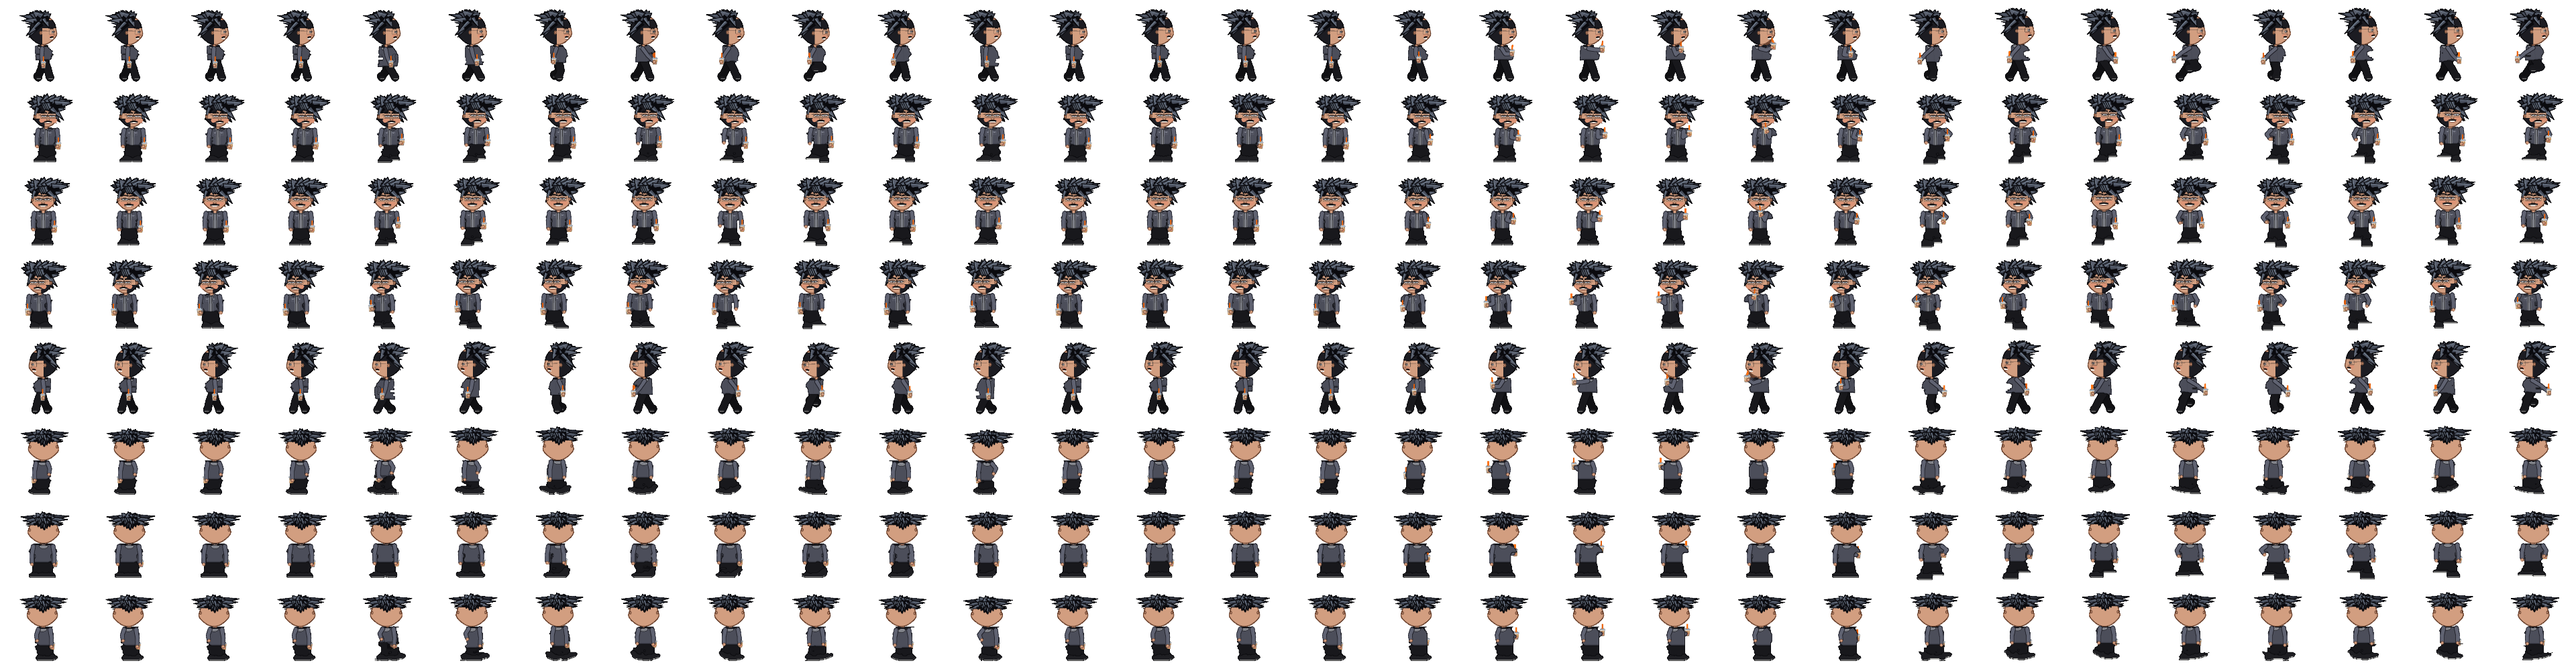
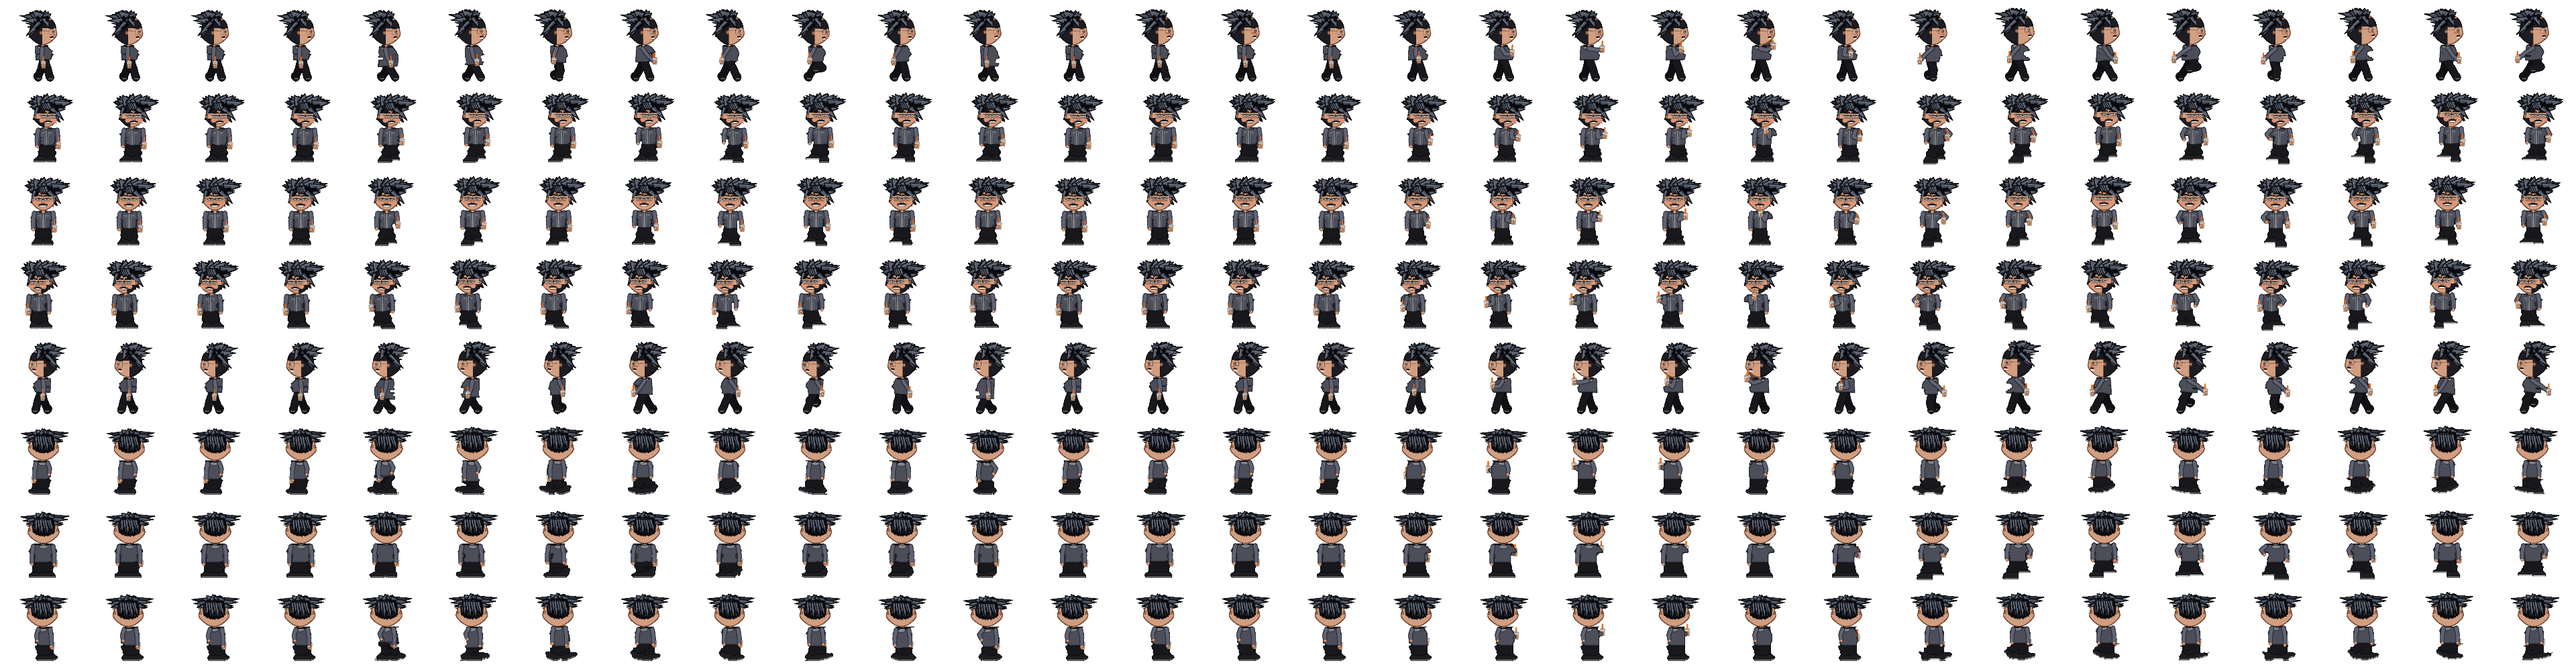
Billy: denser back spikes covering ~top 60% of skull
N/NE/NW now layer chunky down-back spikes over the upper/mid
skull to about ear level with a jagged hairline; only the lower
head, nape, and ears stay skin. No solid black scalp fill. Side
and front views unchanged.

Changed region(s): [[0.0, 0.9062, 1.0, 0.9375], [0.0, 0.7812, 1.0, 0.8125], [0.0, 0.6562, 1.0, 0.6875]]

diff --git a/phaser-tag-client/tools/make_billy_skin.py b/phaser-tag-client/tools/make_billy_skin.py
@@ -491,41 +491,40 @@ def rebuild_head(L, rgb, union, direction, wp, eyes_o):
     spikes = []  # (layer, base, tip, half_w)  layer 0=back 1=mid 2=front
 
     if direction in BACK:
-        # Dense layered spikes on a SKIN head (no black scalp fill).
-        # Up-spike bases sit near the crown (not mid-skull) so they don't
-        # fuse into a helmet band; down-back locks cover upper/mid skull
-        # with staggered tips and skin below the jagged hairline.
-        # --- up/out fans: bases high on crown, moderate width ---
+        # Skin head + DENSE spike coverage over ~top 60% of the skull.
+        # No solid black underfill. Rows of chunky spikes hang down-back;
+        # jagged hairline near ear level; only lower head/nape/ears show skin.
+        # --- crown up/out fans (bases high, so no mid-skull helmet band) ---
         for ang, ln, bw in (
-            (-115, 7.5, 3.4), (-85, 8.8, 3.8), (-55, 9.5, 4.0),
-            (-25, 10.0, 4.2), (5, 10.5, 4.4), (35, 9.8, 4.0),
-            (65, 8.8, 3.8), (95, 7.8, 3.4), (125, 6.8, 3.2),
+            (-115, 7.0, 3.6), (-85, 8.5, 4.0), (-55, 9.2, 4.2),
+            (-25, 9.8, 4.4), (5, 10.2, 4.6), (35, 9.5, 4.2),
+            (65, 8.5, 4.0), (95, 7.5, 3.6), (125, 6.5, 3.4),
         ):
             rad = math.radians(ang)
             bx = cx + math.sin(rad) * hw * 0.22
-            by = top + 1.6 + abs(math.sin(rad)) * 0.35
+            by = top + 1.5 + abs(math.sin(rad)) * 0.3
             tip = (bx + math.sin(rad) * ln, by - math.cos(rad) * ln * 0.55)
             spikes.append((0, (bx, by), tip, bw))
         for ang, ln, bw in (
-            (-95, 8.2, 3.8), (-60, 9.5, 4.2), (-28, 10.2, 4.4),
-            (5, 10.6, 4.6), (38, 9.8, 4.2), (72, 8.8, 3.8),
-            (105, 7.5, 3.4),
+            (-95, 8.0, 4.0), (-60, 9.2, 4.4), (-28, 10.0, 4.6),
+            (5, 10.4, 4.8), (38, 9.6, 4.4), (72, 8.5, 4.0),
+            (105, 7.2, 3.6),
         ):
             rad = math.radians(ang)
             bx = cx + math.sin(rad) * hw * 0.30
-            by = top + 1.2 + abs(math.sin(rad)) * 0.4
+            by = top + 1.1 + abs(math.sin(rad)) * 0.35
             tip = (bx + math.sin(rad) * ln, by - math.cos(rad) * ln * 0.58)
             spikes.append((1, (bx, by), tip, bw))
         for ang, ln, bw in (
-            (-70, 9.0, 4.0), (-35, 10.2, 4.4), (-5, 10.8, 4.6),
-            (28, 10.0, 4.4), (58, 9.0, 4.0), (88, 7.8, 3.6),
+            (-70, 8.8, 4.2), (-35, 10.0, 4.6), (-5, 10.6, 4.8),
+            (28, 9.8, 4.6), (58, 8.8, 4.2), (88, 7.5, 3.8),
         ):
             rad = math.radians(ang)
             bx = cx + math.sin(rad) * hw * 0.36
-            by = top + 0.9 + abs(math.sin(rad)) * 0.45
+            by = top + 0.8 + abs(math.sin(rad)) * 0.4
             tip = (bx + math.sin(rad) * ln * 0.95, by - math.cos(rad) * ln * 0.6)
             spikes.append((2, (bx, by), tip, bw))
-        # side flares (asym)
+        # side flares
         spikes.append((0, (cx - hw * 0.55, top + hh * 0.12),
                        (cx - (hw + 10.0), top + hh * 0.02), 3.6))
         spikes.append((1, (cx - hw * 0.45, top + hh * 0.28),
@@ -538,29 +537,107 @@ def rebuild_head(L, rgb, union, direction, wp, eyes_o):
                        (cx + (hw + 11.5), top + hh * 0.22), 3.8))
         spikes.append((2, (cx + hw * 0.35, top + hh * 0.4),
                        (cx + (hw + 6.5), top + hh * 0.58), 3.2))
-        # --- down-back locks: cover upper→mid; staggered center tips ---
-        nape_limit = top + 0.78 * (bot - top)
-        for (u, drop, sweep, bw, ly) in (
-            (-0.92, 8.0, -2.4, 3.2, 0), (-0.62, 10.0, -1.2, 3.4, 0),
-            (-0.32, 12.0, -0.2, 3.6, 0), (0.0, 13.5, 0.4, 3.8, 0),
-            (0.32, 12.0, 1.4, 3.6, 0), (0.62, 10.0, 2.4, 3.4, 0),
-            (0.92, 8.0, 3.2, 3.2, 0),
-            (-0.78, 6.5, -1.6, 3.0, 1), (-0.48, 9.5, -0.5, 3.2, 1),
-            (-0.20, 11.5, 0.3, 3.4, 1), (0.10, 13.0, 0.8, 3.4, 1),
-            (0.40, 10.0, 1.7, 3.2, 1), (0.70, 7.5, 2.6, 3.0, 1),
-            (-0.85, 5.0, -1.4, 2.6, 2), (-0.55, 8.5, -0.4, 2.8, 2),
-            (-0.25, 11.0, 0.4, 3.0, 2), (0.05, 14.0, 0.6, 3.2, 2),
-            (0.30, 11.5, 1.3, 3.0, 2), (0.55, 8.0, 2.1, 2.8, 2),
-            (0.82, 5.5, 2.8, 2.6, 2),
-            (-0.68, 4.0, -0.9, 2.2, 2), (-0.38, 7.0, -0.1, 2.4, 2),
-            (-0.10, 9.5, 0.5, 2.6, 2), (0.18, 5.5, 1.0, 2.4, 2),
-            (0.45, 8.5, 1.7, 2.4, 2), (0.72, 4.5, 2.4, 2.2, 2),
-            (0.0, 6.5, 0.2, 2.3, 2), (-0.12, 5.0, 0.4, 2.2, 2),
-            (0.22, 9.0, 1.1, 2.4, 2), (0.0, 10.5, -0.2, 2.2, 1),
+        # --- down-back ROWS: cover ~top 60% of skull; hairline ~ear level ---
+        # Target tip band: top+0.52..0.65 of head height. Chunkier + denser
+        # so the mid-back isn't a bald skin dome under a thin spike crown.
+        ear_y = top + 0.58 * (bot - top)
+        nape_limit = top + 0.74 * (bot - top)
+        # Row A: long recessed locks spanning crown → ear line
+        for (u, frac, sweep, bw, ly) in (
+            (-0.95, 0.60, -2.6, 3.8, 0), (-0.70, 0.66, -1.6, 4.0, 0),
+            (-0.45, 0.68, -0.6, 4.2, 0), (-0.20, 0.70, 0.2, 4.4, 0),
+            (0.05, 0.71, 0.8, 4.4, 0), (0.30, 0.69, 1.6, 4.2, 0),
+            (0.55, 0.67, 2.4, 4.0, 0), (0.80, 0.64, 3.2, 3.8, 0),
+            (0.98, 0.58, 3.8, 3.6, 0),
+        ):
+            bx = cx + u * hw * 0.55
+            by = top + 1.2 + 0.3 * abs(u)
+            tip_y = min(top + frac * (bot - top), nape_limit)
+            spikes.append((ly, (bx, by), (bx + sweep, tip_y), bw))
+        # Row B: mid layer, staggered lengths for jagged hairline
+        for (u, frac, sweep, bw, ly) in (
+            (-0.85, 0.52, -2.0, 3.6, 1), (-0.58, 0.60, -1.0, 3.8, 1),
+            (-0.32, 0.63, -0.2, 4.0, 1), (-0.05, 0.58, 0.5, 4.0, 1),
+            (0.22, 0.65, 1.3, 4.0, 1), (0.48, 0.61, 2.1, 3.8, 1),
+            (0.72, 0.55, 2.9, 3.6, 1), (0.92, 0.50, 3.5, 3.4, 1),
+        ):
+            bx = cx + u * hw * 0.52
+            by = top + 1.6 + 0.35 * abs(u)
+            tip_y = min(top + frac * (bot - top), nape_limit)
+            spikes.append((ly, (bx, by), (bx + sweep, tip_y), bw))
+        # Row C: forward chunky points — deliberately uneven around ear_y
+        for (u, frac, sweep, bw, ly) in (
+            (-0.90, 0.48, -1.8, 3.2, 2), (-0.65, 0.57, -0.8, 3.4, 2),
+            (-0.38, 0.62, 0.0, 3.6, 2), (-0.12, 0.54, 0.6, 3.6, 2),
+            (0.12, 0.66, 1.2, 3.6, 2), (0.38, 0.59, 1.9, 3.4, 2),
+            (0.62, 0.64, 2.6, 3.4, 2), (0.85, 0.51, 3.2, 3.2, 2),
         ):
             bx = cx + u * hw * 0.50
-            by = top + 1.4 + 0.45 * abs(u)
-            tip_y = min(by + drop, nape_limit)
+            by = top + 2.0 + 0.4 * abs(u)
+            tip_y = min(top + frac * (bot - top), nape_limit)
+            spikes.append((ly, (bx, by), (bx + sweep, tip_y), bw))
+        # Row D: tip daggers poking past ear_y for spiky hairline
+        for (u, frac, sweep, bw) in (
+            (-0.75, 0.58, -1.2, 2.6), (-0.48, 0.72, -0.3, 2.8),
+            (-0.22, 0.64, 0.4, 2.8), (0.02, 0.74, 0.9, 3.0),
+            (0.28, 0.60, 1.5, 2.8), (0.52, 0.70, 2.2, 2.8),
+            (0.78, 0.56, 2.8, 2.6),
+            (-0.35, 0.55, 0.2, 2.4), (0.15, 0.68, 1.1, 2.6),
+            (0.42, 0.52, 1.8, 2.4), (-0.08, 0.50, 0.5, 2.4),
+            (-0.60, 0.70, -0.8, 2.5), (0.60, 0.70, 1.6, 2.5),
+            (0.0, 0.72, 0.3, 2.6), (-0.18, 0.66, 0.2, 2.4),
+            (0.35, 0.66, 1.3, 2.4),
+        ):
+            bx = cx + u * hw * 0.48
+            by = top + 2.4 + 0.3 * abs(u)
+            tip_y = min(top + frac * (bot - top), nape_limit)
+            spikes.append((2, (bx, by), (bx + sweep, tip_y), bw))
+        # Mid-skull rooted locks (hang from ~25% down) fill bald mid-back
+        for (u, frac, sweep, bw, ly) in (
+            (-0.70, 0.62, -1.4, 3.4, 0), (-0.40, 0.66, -0.4, 3.6, 0),
+            (-0.10, 0.68, 0.4, 3.8, 1), (0.20, 0.67, 1.2, 3.6, 1),
+            (0.50, 0.64, 2.0, 3.4, 0), (0.75, 0.60, 2.8, 3.2, 0),
+            (-0.55, 0.58, -0.8, 3.0, 2), (-0.25, 0.64, 0.2, 3.2, 2),
+            (0.05, 0.61, 0.8, 3.2, 2), (0.35, 0.65, 1.6, 3.0, 2),
+            (0.60, 0.56, 2.4, 2.8, 2),
+        ):
+            bx = cx + u * hw * 0.48
+            by = top + 0.25 * (bot - top) + 0.2 * abs(u)
+            tip_y = min(top + frac * (bot - top), nape_limit)
+            spikes.append((ly, (bx, by), (bx + sweep, tip_y), bw))
+        # Lateral mid-skull fill: close the bald side gaps above the ears
+        for (u, frac, sweep, bw, ly) in (
+            (-1.05, 0.58, -2.0, 3.6, 0), (-0.88, 0.64, -1.2, 3.8, 0),
+            (-0.72, 0.66, -0.5, 4.0, 1), (0.72, 0.66, 0.8, 4.0, 1),
+            (0.88, 0.64, 1.6, 3.8, 0), (1.05, 0.58, 2.4, 3.6, 0),
+            (-0.95, 0.55, -1.6, 3.4, 2), (-0.80, 0.62, -0.8, 3.6, 2),
+            (0.80, 0.62, 1.2, 3.6, 2), (0.95, 0.55, 2.0, 3.4, 2),
+            (-1.00, 0.50, -1.0, 3.2, 1), (1.00, 0.50, 1.4, 3.2, 1),
+            (-0.82, 0.68, -0.3, 3.4, 2), (0.82, 0.68, 0.6, 3.4, 2),
+        ):
+            bx = cx + u * hw * 0.58
+            by = top + 0.18 * (bot - top) + 0.15 * abs(u)
+            tip_y = min(top + frac * (bot - top), nape_limit)
+            spikes.append((ly, (bx, by), (bx + sweep, tip_y), bw))
+        # Coverage locks across full width at ~ear depth (narrower so tips
+        # stay distinct spikes, not a flat fused rectangle)
+        for (u, frac, sweep, bw, ly) in (
+            (-0.90, 0.62, -1.5, 3.2, 0), (-0.60, 0.68, -0.6, 3.4, 0),
+            (-0.30, 0.71, 0.2, 3.6, 1), (0.0, 0.72, 0.5, 3.6, 1),
+            (0.30, 0.71, 1.2, 3.6, 1), (0.60, 0.68, 2.0, 3.4, 0),
+            (0.90, 0.62, 2.8, 3.2, 0),
+            (-0.75, 0.58, -1.0, 3.0, 2), (-0.45, 0.66, -0.2, 3.2, 2),
+            (-0.15, 0.70, 0.4, 3.2, 2), (0.15, 0.70, 1.0, 3.2, 2),
+            (0.45, 0.66, 1.8, 3.2, 2), (0.75, 0.58, 2.5, 3.0, 2),
+            # spaced tip points with skin gaps between
+            (-0.82, 0.64, -1.2, 2.4, 2), (-0.52, 0.55, -0.4, 2.4, 2),
+            (-0.22, 0.73, 0.3, 2.6, 2), (0.08, 0.56, 0.8, 2.4, 2),
+            (0.38, 0.73, 1.5, 2.6, 2), (0.68, 0.55, 2.2, 2.4, 2),
+            (0.92, 0.64, 2.8, 2.4, 2),
+        ):
+            bx = cx + u * hw * 0.56
+            by = top + 0.12 * (bot - top)
+            tip_y = min(top + frac * (bot - top), nape_limit)
             spikes.append((ly, (bx, by), (bx + sweep, tip_y), bw))
     elif direction in PROFILE:
         back_sign = -fx
